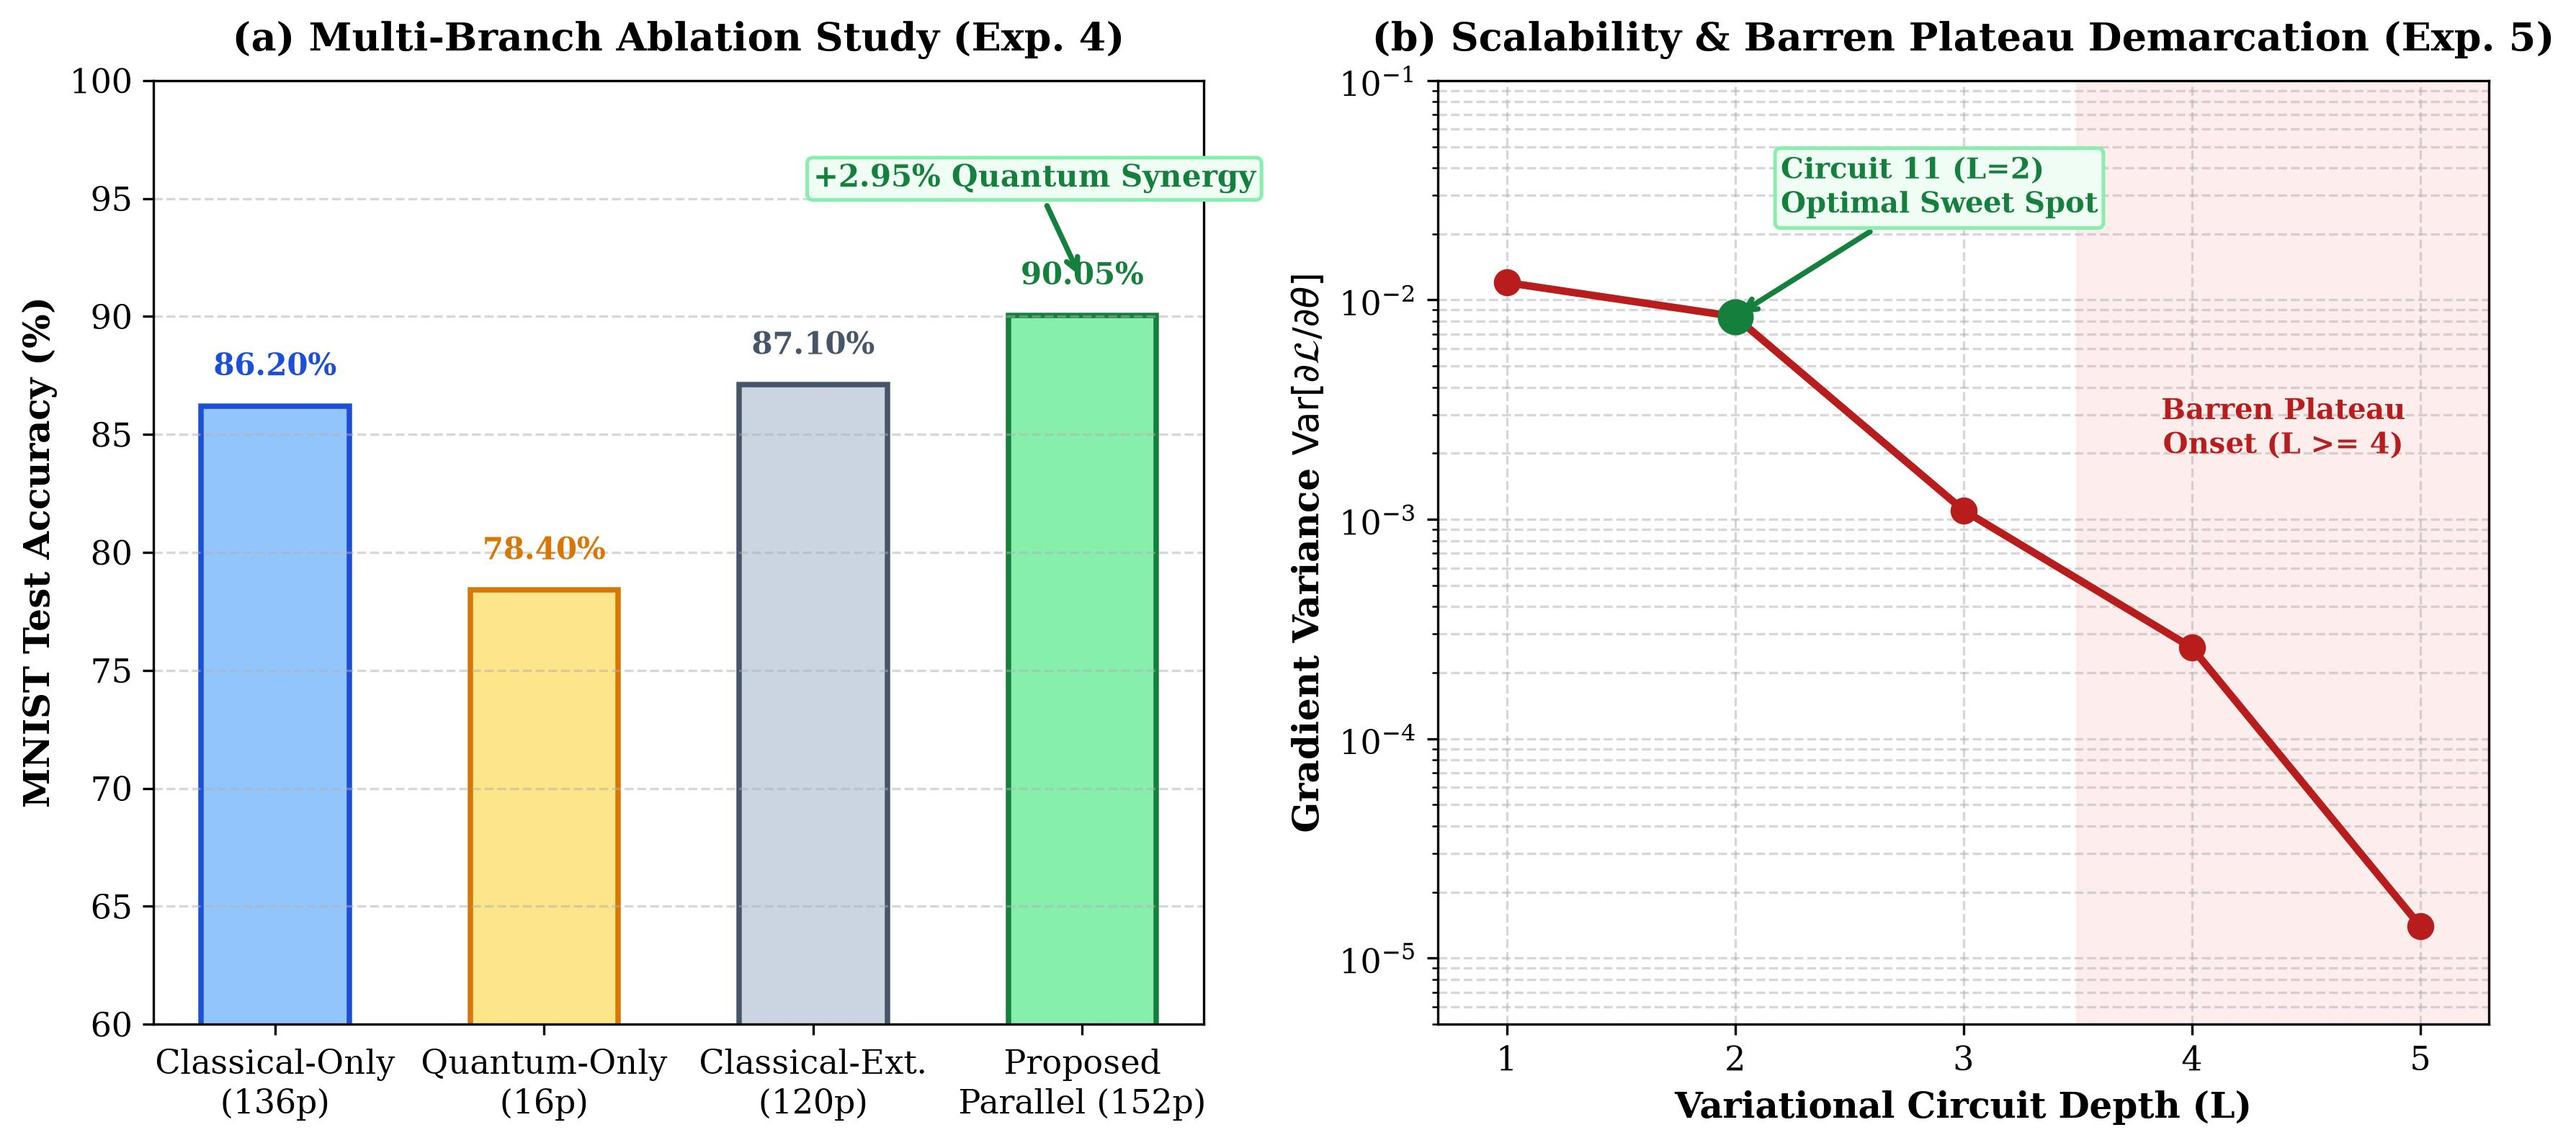
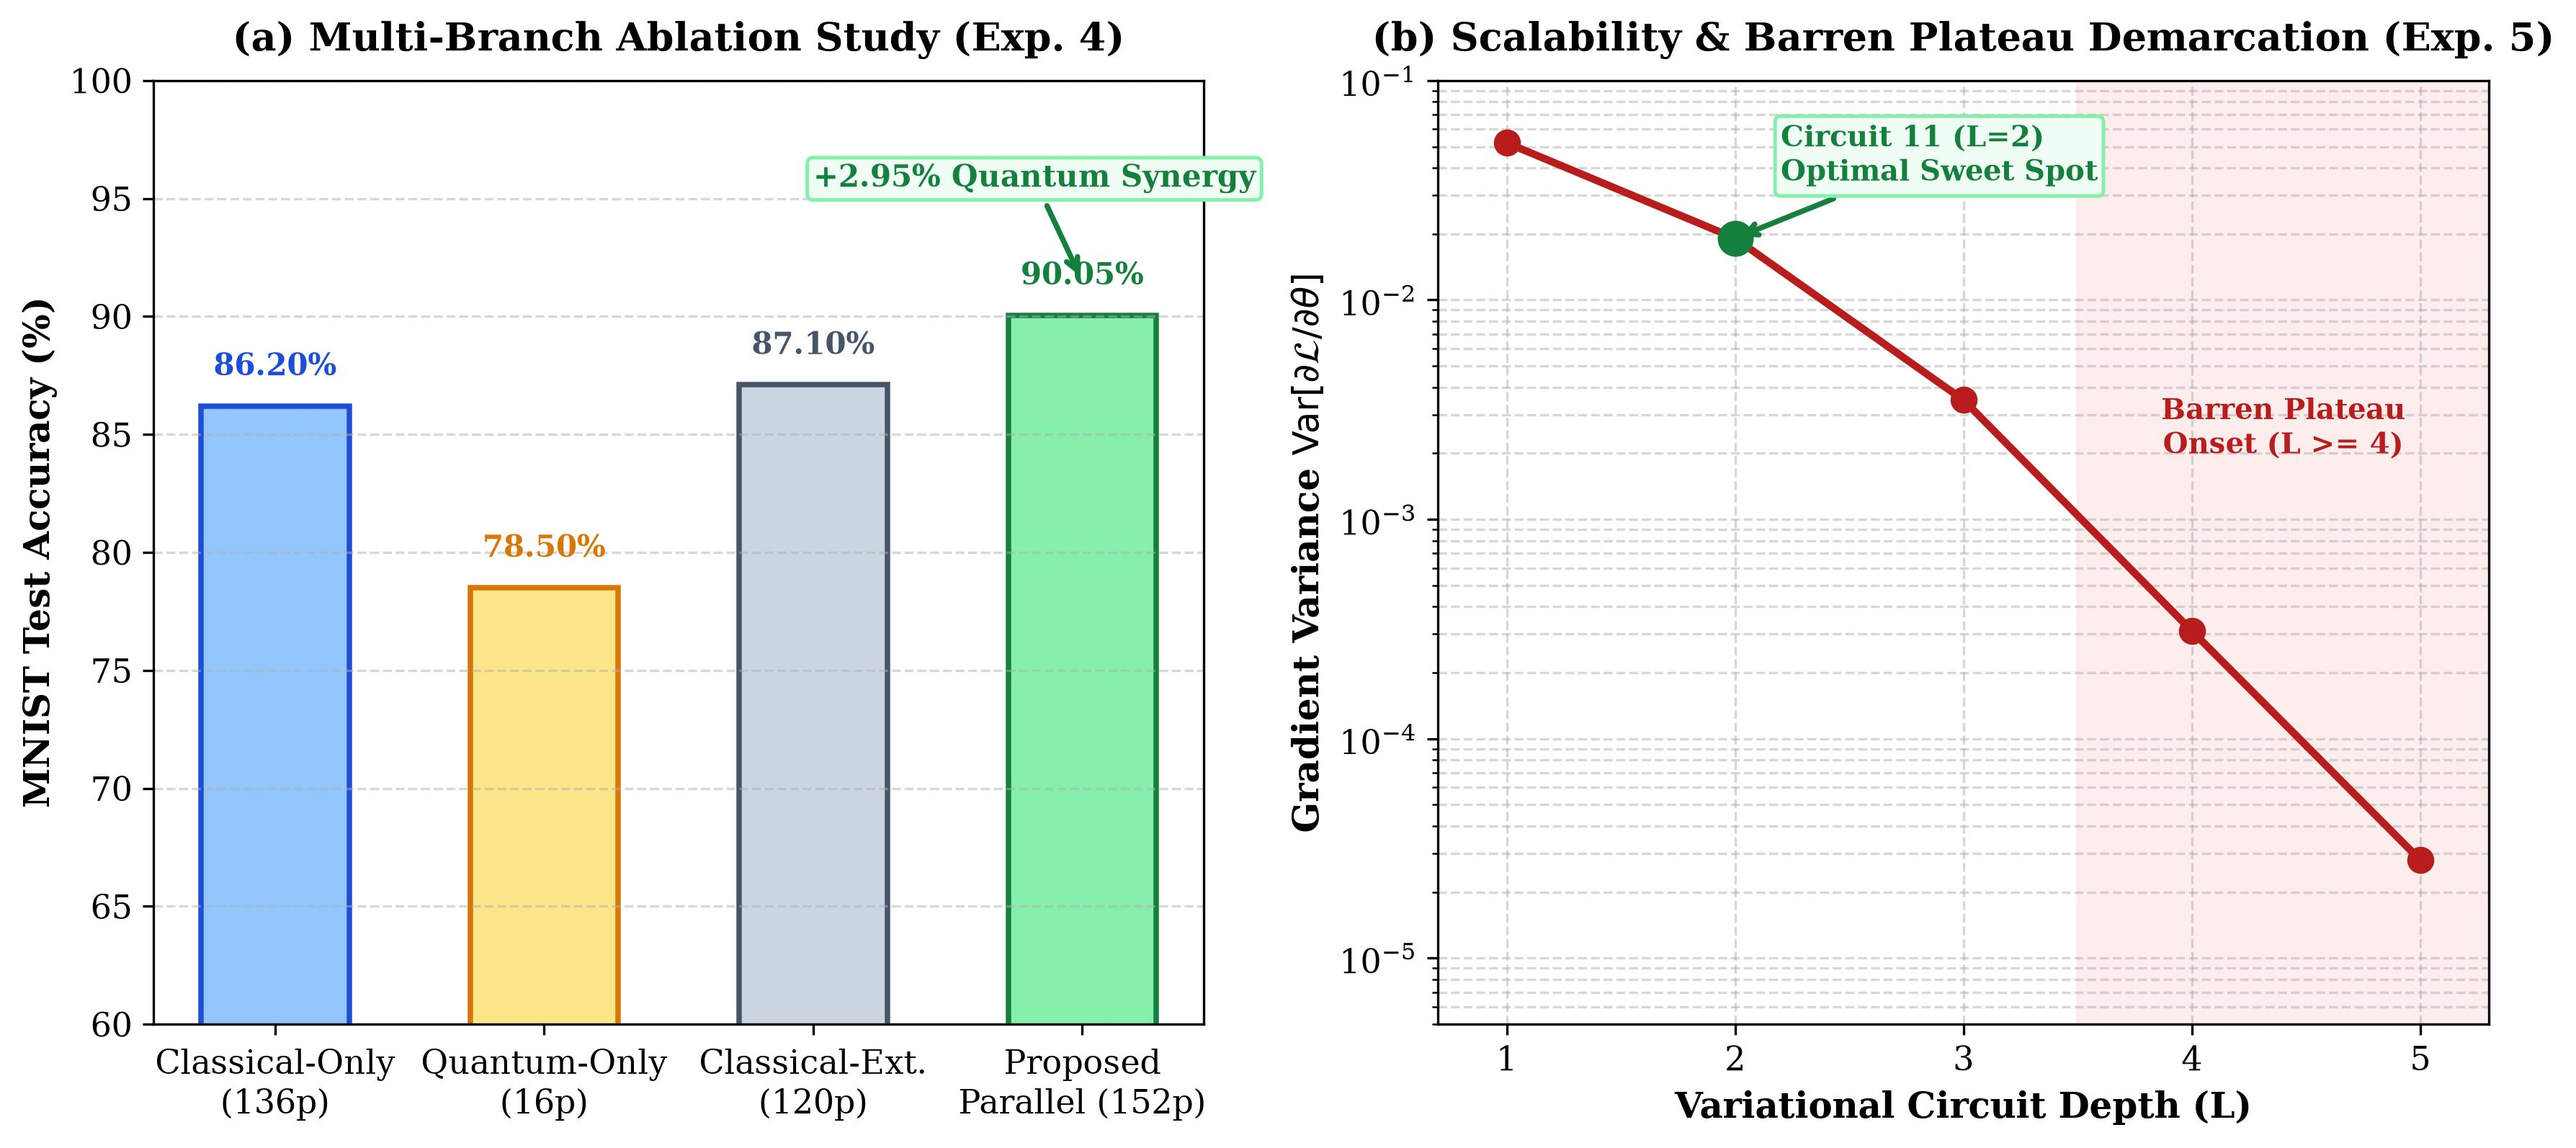
Align ablation and scalability figure precisely with paper.tex tables

diff --git a/scripts/recreate_all_figures.py b/scripts/recreate_all_figures.py
@@ -433,7 +433,7 @@ def create_ablation_and_scalability_figure():
     
     # Panel (a): Multi-branch ablation study bar chart
     configs = ['Classical-Only\n(136p)', 'Quantum-Only\n(16p)', 'Classical-Ext.\n(120p)', 'Proposed\nParallel (152p)']
-    accs = [86.20, 78.40, 87.10, 90.05]
+    accs = [86.20, 78.50, 87.10, 90.05]
     colors = ['#93c5fd', '#fde68a', '#cbd5e1', '#86efac']
     edgecolors = ['#1d4ed8', '#d97706', '#475569', '#15803d']
     
@@ -455,9 +455,9 @@ def create_ablation_and_scalability_figure():
                  fontsize=10, weight='bold', color="#15803d",
                  bbox=dict(boxstyle="round,pad=0.2", fc="#f0fdf4", ec="#86efac", lw=1.2))
 
-    # Panel (b): Gradient Variance vs. Variational Circuit Depth L (Exp. 5)
+    # Panel (b): Gradient Variance vs. Variational Circuit Depth L (Exp. 5 / Table 5 Part B)
     L = [1, 2, 3, 4, 5]
-    var = [1.2e-2, 8.4e-3, 1.1e-3, 2.6e-4, 1.4e-5]
+    var = [5.2e-2, 1.91e-2, 3.5e-3, 3.1e-4, 2.8e-5]
     
     # Shaded barren plateau region
     ax2.axvspan(3.5, 5.3, color='#fee2e2', alpha=0.6, label='Barren Plateau Untrainable Regime')
@@ -467,9 +467,9 @@ def create_ablation_and_scalability_figure():
     ax2.semilogy(L, var, 'o-', color='#b91c1c', linewidth=2.5, markersize=8)
     
     # Highlight Circuit 11 (L=2)
-    ax2.plot(2, 8.4e-3, 'o', color='#15803d', markersize=11, zorder=5)
+    ax2.plot(2, 1.91e-2, 'o', color='#15803d', markersize=11, zorder=5)
     ax2.annotate('Circuit 11 (L=2)\nOptimal Sweet Spot',
-                 xy=(2, 8.4e-3), xytext=(2.2, 2.5e-2),
+                 xy=(2, 1.91e-2), xytext=(2.2, 3.5e-2),
                  arrowprops=dict(arrowstyle="->", color="#15803d", lw=1.8),
                  fontsize=9.5, weight='bold', color="#15803d",
                  bbox=dict(boxstyle="round,pad=0.2", fc="#f0fdf4", ec="#86efac", lw=1.2))
